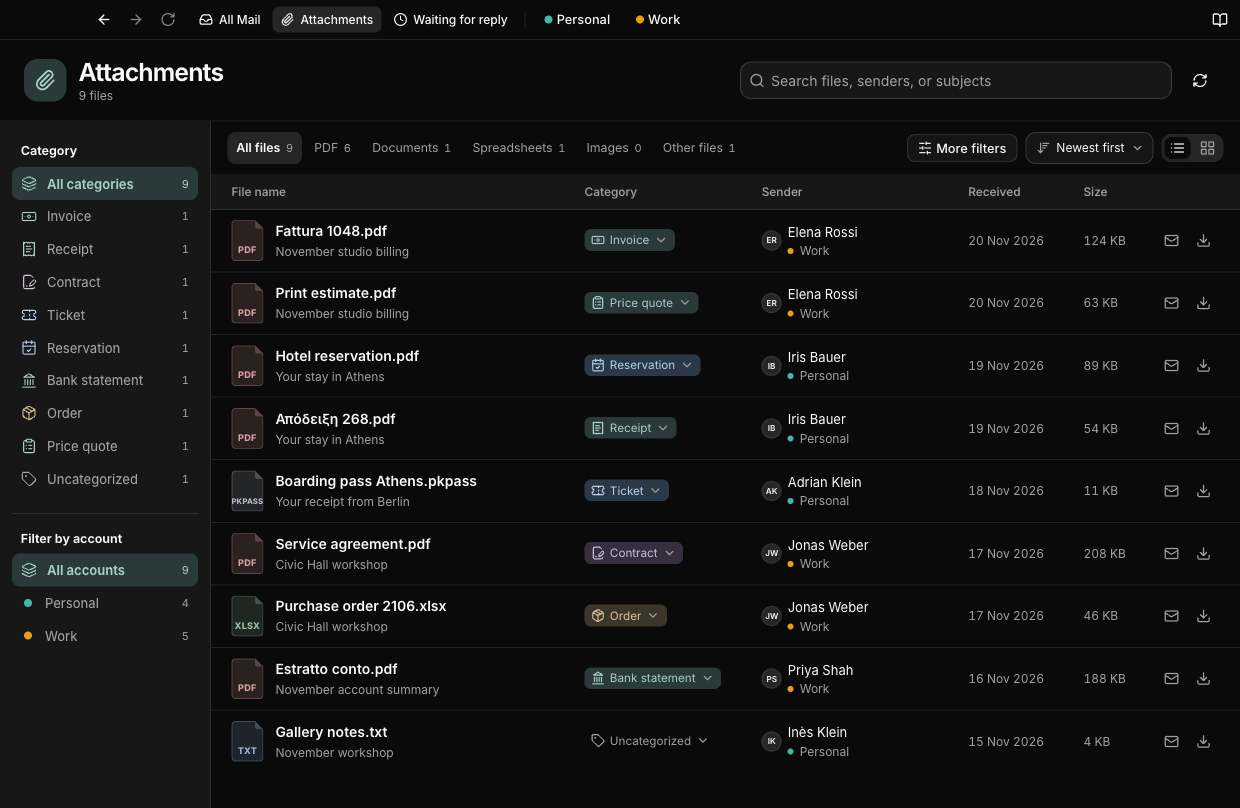
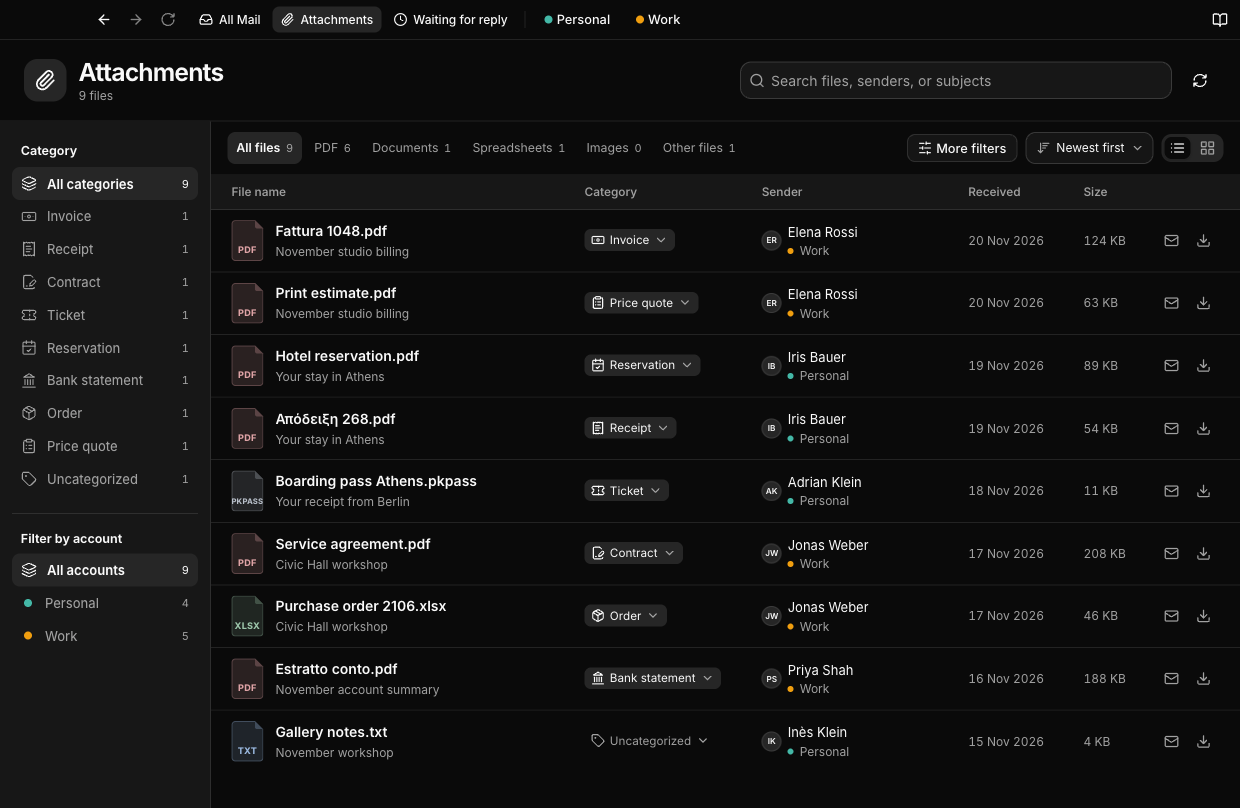
Match the attachment library accent to the neutral assistant theme

diff --git a/packages/renderer/components/attachments/library.css b/packages/renderer/components/attachments/library.css
@@ -1,31 +1,10 @@
 .attachment-library,
 .attachment-filter-popover {
   color-scheme: light;
-  --library-ink: light-dark(#355e61, #a2d0c9);
-  --library-tint: light-dark(#e7f1ee, #243b39);
-  --library-edge: light-dark(#c8dbd7, #3c5955);
 }
 
 .dark :is(.attachment-library, .attachment-filter-popover) {
   color-scheme: dark;
-}
-
-[data-attachment-category="contract"] {
-  --category-ink: light-dark(#6b467a, #d6bddd);
-  --category-tint: light-dark(#f2eaf6, #392e41);
-}
-:is([data-attachment-category="ticket"], [data-attachment-category="booking"]) {
-  --category-ink: light-dark(#345c84, #b2d1f2);
-  --category-tint: light-dark(#e9f1fa, #263849);
-}
-[data-attachment-category="order"] {
-  --category-ink: light-dark(#795722, #e2c491);
-  --category-tint: light-dark(#f7efdf, #3d3528);
-}
-.attachment-facets
-  button:not([aria-pressed="true"])
-  [data-attachment-category]:not([data-attachment-category="uncategorized"]) {
-  color: var(--category-ink, var(--library-ink));
 }
 
 .attachment-header {
@@ -58,8 +37,8 @@
   height: 2.65rem;
   place-items: center;
   border-radius: 0.85rem;
-  background: var(--library-tint);
-  color: var(--library-ink);
+  background: var(--muted);
+  color: var(--foreground);
 }
 .attachment-library-icon svg {
   width: 1.4rem;
@@ -114,8 +93,8 @@
   font-weight: 450;
 }
 .attachment-facets button[aria-pressed="true"] {
-  color: var(--library-ink);
-  background: var(--library-tint);
+  color: var(--accent-foreground);
+  background: var(--accent);
   font-weight: 630;
 }
 .attachment-facets button[aria-pressed="true"] span:last-child {
@@ -221,10 +200,10 @@
   gap: 0.35rem;
   max-width: min(13rem, 100%);
   min-height: 1.6rem;
-  border: 1px solid var(--library-edge);
+  border: 1px solid var(--border);
   border-radius: 2rem;
   background: var(--background);
-  color: var(--library-ink);
+  color: var(--foreground);
   padding-inline: 0.55rem;
   font-size: 0.73rem;
   font-weight: 550;
@@ -235,10 +214,10 @@
   height: 0.78rem;
 }
 .attachment-filter-chip:hover {
-  background: var(--library-tint);
+  background: var(--accent);
 }
 .attachment-filter-chip:focus-visible {
-  outline: 2px solid var(--library-ink);
+  outline: 2px solid var(--ring);
   outline-offset: 1px;
 }
 
@@ -272,7 +251,7 @@
   font-weight: 400;
 }
 .attachment-detail-filters :is(input, [data-slot="select-trigger"]):focus-visible {
-  outline: 2px solid var(--library-ink);
+  outline: 2px solid var(--ring);
   outline-offset: 1px;
 }
 .attachment-date-range {

diff --git a/packages/renderer/components/attachments/files.css b/packages/renderer/components/attachments/files.css
@@ -1,32 +1,32 @@
 /* Only the file mark carries format color. Controls follow the current ggmail theme. */
-:is(.attachment-mark, .attachment-card)[data-kind="pdf"] {
+.attachment-mark[data-kind="pdf"] {
   --file-ink: #ac464e;
 }
-:is(.attachment-mark, .attachment-card)[data-kind="document"] {
+.attachment-mark[data-kind="document"] {
   --file-ink: #366ca4;
 }
-:is(.attachment-mark, .attachment-card)[data-kind="sheet"] {
+.attachment-mark[data-kind="sheet"] {
   --file-ink: #287451;
 }
-:is(.attachment-mark, .attachment-card)[data-kind="image"] {
+.attachment-mark[data-kind="image"] {
   --file-ink: #8058a5;
 }
-:is(.attachment-mark, .attachment-card)[data-kind="other"] {
+.attachment-mark[data-kind="other"] {
   --file-ink: #606b78;
 }
-.dark :is(.attachment-mark, .attachment-card)[data-kind="pdf"] {
+.dark .attachment-mark[data-kind="pdf"] {
   --file-ink: #eaa0a5;
 }
-.dark :is(.attachment-mark, .attachment-card)[data-kind="document"] {
+.dark .attachment-mark[data-kind="document"] {
   --file-ink: #91b9e3;
 }
-.dark :is(.attachment-mark, .attachment-card)[data-kind="sheet"] {
+.dark .attachment-mark[data-kind="sheet"] {
   --file-ink: #91c8a9;
 }
-.dark :is(.attachment-mark, .attachment-card)[data-kind="image"] {
+.dark .attachment-mark[data-kind="image"] {
   --file-ink: #c4a5df;
 }
-.dark :is(.attachment-mark, .attachment-card)[data-kind="other"] {
+.dark .attachment-mark[data-kind="other"] {
   --file-ink: #b6bfca;
 }
 
@@ -144,16 +144,16 @@
   color: var(--muted-foreground);
 }
 .attachment-category-picker[data-slot][data-assigned="true"] {
-  color: var(--category-ink, var(--library-ink));
-  background: var(--category-tint, var(--library-tint));
+  color: var(--foreground);
+  background: var(--muted);
 }
 .attachment-category-picker:hover,
 .attachment-category-picker:focus-within {
-  border-color: var(--library-edge);
-  color: var(--library-ink);
+  border-color: var(--input);
+  color: var(--foreground);
 }
 .attachment-category-picker:focus-within {
-  outline: 2px solid var(--library-ink);
+  outline: 2px solid var(--ring);
   outline-offset: 1px;
 }
 .attachment-subject {
@@ -317,7 +317,7 @@
   overflow: hidden;
   height: 7.5rem;
   border-radius: calc(calc(var(--radius) * 1.4) - 1px) calc(calc(var(--radius) * 1.4) - 1px) 0 0;
-  background: color-mix(in srgb, var(--file-ink) 9%, var(--sidebar));
+  background: var(--sidebar);
   border-bottom: 1px solid var(--border);
 }
 

diff --git a/packages/renderer/components/attachments/files.tsx b/packages/renderer/components/attachments/files.tsx
@@ -1,6 +1,5 @@
 import { accountColorsMap, getAccountLabel } from "@ggmail/shared/accounts";
 import {
-  fileKind,
   type AttachmentAction,
   type AttachmentCategory,
   type MailAttachment,
@@ -171,7 +170,7 @@ export function FileItem({
   );
   if (grid) {
     return (
-      <li className="attachment-card" data-kind={fileKind(item.name)}>
+      <li className="attachment-card">
         <FileThumbnail item={item} large>
           <FileMark name={item.name} large />
         </FileThumbnail>

diff --git a/packages/renderer/components/attachments/filters.tsx b/packages/renderer/components/attachments/filters.tsx
@@ -92,7 +92,7 @@ export function LibraryFilters({
               key={value}
               label={categoryLabels[value]}
               active={selected}
-              icon={<Icon data-attachment-category={value} />}
+              icon={<Icon />}
               count={categoryCounts.values.get(value) ?? 0}
               onClick={() => onCategory(value)}
             />
